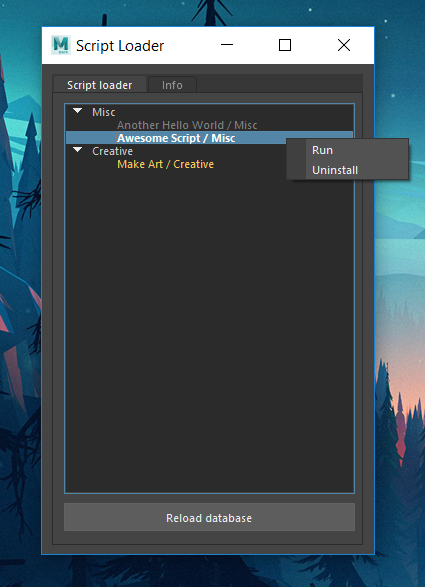
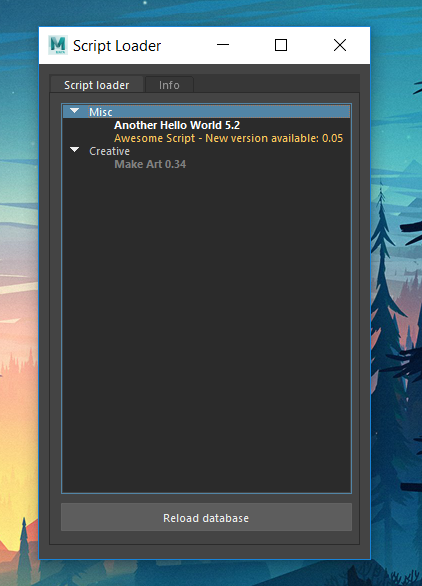
Improved version checking

diff --git a/script_loader.py b/script_loader.py
@@ -241,8 +241,6 @@ class ScriptLoaderUI(QtWidgets.QWidget, Ui_Form):
         self.write_to_log(title + " | " + message + " | " + str(answer))
         return answer
 
-
-
     def get_update_status(self):
         """
         Get status of current item (true if outdated)
@@ -270,7 +268,7 @@ class ScriptLoaderUI(QtWidgets.QWidget, Ui_Form):
         sel_item = b[0].data(0,32)
         return sel_item
 
-    def check_version(self, script_path):
+    def get_version(self, script_path):
         """
         Compare versions of local and source script
         Args:
@@ -285,12 +283,12 @@ class ScriptLoaderUI(QtWidgets.QWidget, Ui_Form):
         version_file_local = final_folder + "/_version.py"
         version_file_db = script_path + "/_version.py"
 
+        bar = imp.load_source('module.name', version_file_db)
+        db_version = str(bar.__version__)
+        local_version = ""
         try:
             foo = imp.load_source('module.name', version_file_local)
             local_version = str(foo.__version__)
-            bar = imp.load_source('module.name', version_file_db)
-            db_version = str(bar.__version__)
-
             if LooseVersion(db_version) > LooseVersion(local_version):
                 print "The following script is outdated:  " + final_folder + " - db: " + db_version + " local: " + local_version
                 version_outdated = True
@@ -299,7 +297,7 @@ class ScriptLoaderUI(QtWidgets.QWidget, Ui_Form):
         except Exception as e:
             print "could not find version number in " + version_file_local + " " + str(e)
 
-        return version_outdated
+        return local_version, db_version, version_outdated
 
     def update_tree(self):
         """
@@ -322,7 +320,6 @@ class ScriptLoaderUI(QtWidgets.QWidget, Ui_Form):
                         if db_column[3] == category:
                             script_item = QtWidgets.QTreeWidgetItem(cat_item)
                             # set tree item data
-                            script_item.setText(0, db_column[1] + " / " + str(db_column[3]))
                             script_item.setData(0,32, db_column[2])  # path
                             script_item.setData(0, 33, db_column[3])  # version
                             script_item.setData(0, 35, True)  # script item
@@ -332,13 +329,16 @@ class ScriptLoaderUI(QtWidgets.QWidget, Ui_Form):
                             split_string = str(db_column[2]).split("/")
                             script_name = split_string[-1]
                             target_folder = maya_script_folder + "/" + script_name
+                            # get versions
+                            version_local, version_db, version_outdated = self.get_version(db_column[2])
+                            # Set item text
+                            script_item.setText(0, db_column[1] + " " + version_db)
                             # if folder exists
                             if os.path.exists(target_folder):
-                                # get versions
-                                if self.check_version(db_column[2]):  # if version is outdated
+                                if version_outdated:  # if version is outdated
                                     script_item.setData(0, 34, True)  # set outdated status to true
                                     script_item.setForeground(0, self.create_brushes()[2])  # set text color orange
-
+                                    script_item.setText(0, db_column[1] + " - New version available: " + version_db)
                                 else:
                                     script_item.setData(0, 34, False)  # set outdated status to false
                                     # set text color white + bold

diff --git a/scripts_source_dummy/hello_world_2/_version.py b/scripts_source_dummy/hello_world_2/_version.py
@@ -1,1 +1,1 @@
-__version__ = '11162.34.56'
+__version__ = '5.2'

diff --git a/scripts_source_dummy/hello_world_1/_version.py b/scripts_source_dummy/hello_world_1/_version.py
@@ -1,1 +1,1 @@
-__version__ = '22.34.56'
+__version__ = '0.34'

diff --git a/scripts_source_dummy/hello_world_3/_version.py b/scripts_source_dummy/hello_world_3/_version.py
@@ -1,1 +1,1 @@
-__version__ = '12.34.56'
+__version__ = '0.05'
